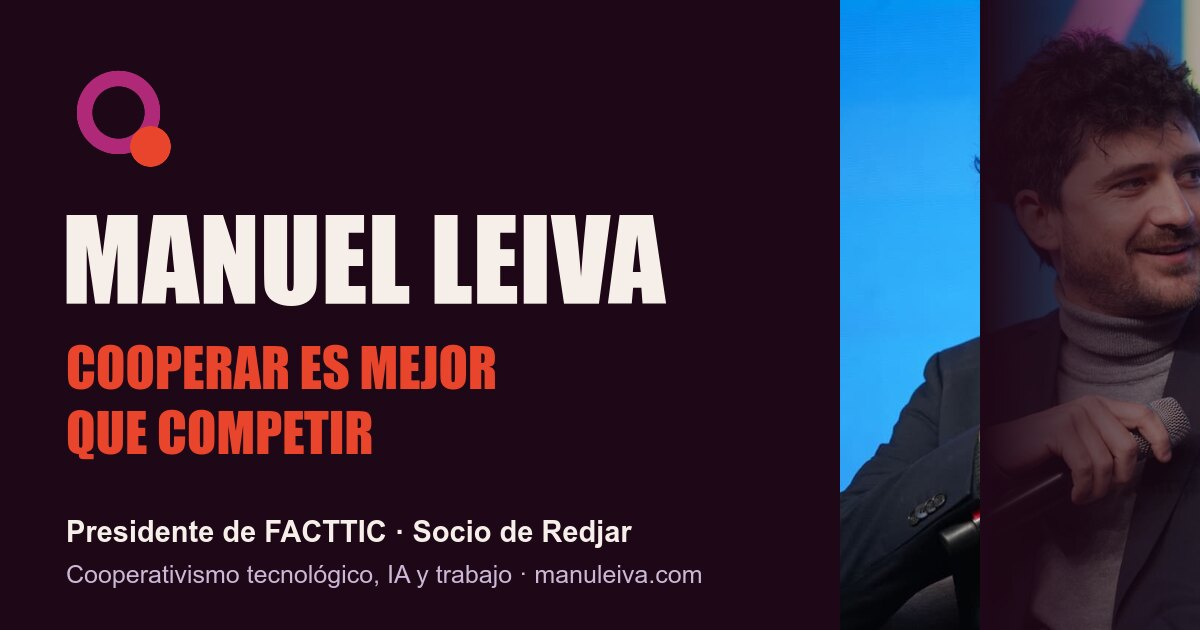
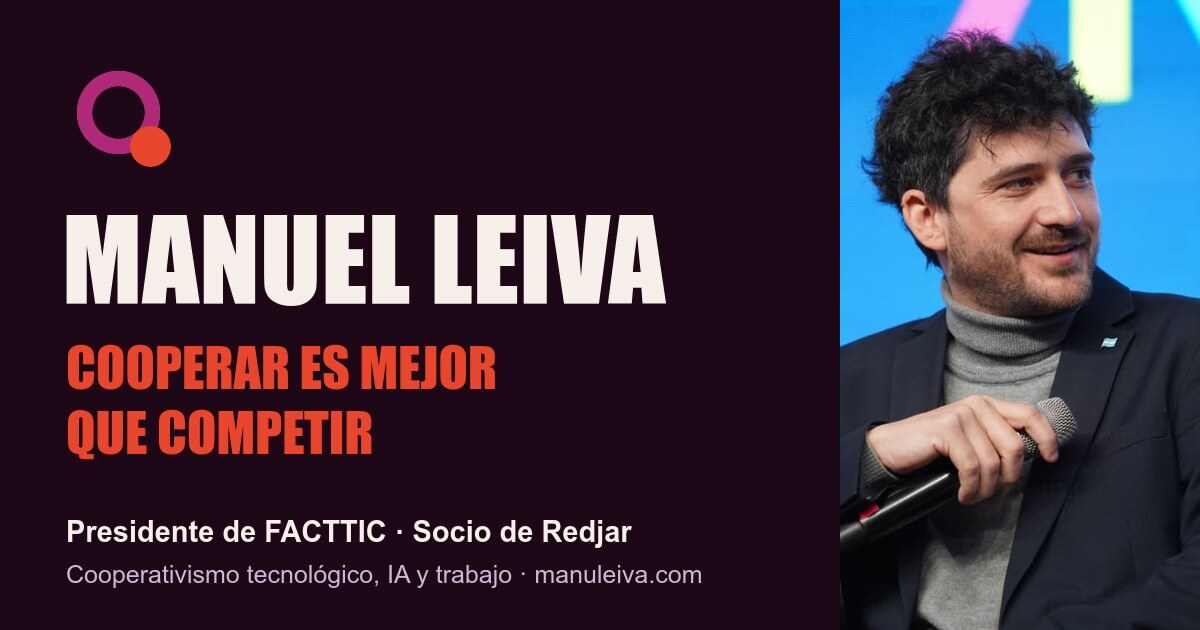
Corrige la miniatura para compartir: saca el sombreado de la cara
Rehace la franja de la foto con un recorte limpio de escenario.jpg y
versiona la URL (?v=2) para que las redes tomen la imagen nueva.

Changed region(s): [[0.6783, 0.0, 1.0, 1.0]]

diff --git a/blog/la-potencia-de-la-tecnologia-y-el-impacto-en-la-comunidad.html b/blog/la-potencia-de-la-tecnologia-y-el-impacto-en-la-comunidad.html
@@ -14,7 +14,7 @@
 <meta property="og:url" content="https://manuleiva.com/blog/la-potencia-de-la-tecnologia-y-el-impacto-en-la-comunidad.html">
 <meta property="og:title" content="La potencia de la tecnología y el impacto en la comunidad">
 <meta property="og:description" content="Exposición de Manuel Leiva por el Día Internacional de las Cooperativas 2025 en Santa Fe: tecnología cooperativa para tener más impacto en la comunidad.">
-<meta property="og:image" content="https://manuleiva.com/img/og/manuel-leiva-og.jpg">
+<meta property="og:image" content="https://manuleiva.com/img/og/manuel-leiva-og.jpg?v=2">
 <meta property="og:image:width" content="1200">
 <meta property="og:image:height" content="630">
 <meta property="og:image:alt" content="Manuel Leiva, presidente de FACTTIC y socio de Redjar.">
@@ -24,7 +24,7 @@
 <meta name="twitter:card" content="summary_large_image">
 <meta name="twitter:title" content="La potencia de la tecnología y el impacto en la comunidad">
 <meta name="twitter:description" content="Exposición de Manuel Leiva por el Día Internacional de las Cooperativas 2025: tecnología cooperativa para tener más impacto en la comunidad.">
-<meta name="twitter:image" content="https://manuleiva.com/img/og/manuel-leiva-og.jpg">
+<meta name="twitter:image" content="https://manuleiva.com/img/og/manuel-leiva-og.jpg?v=2">
 <meta name="theme-color" content="#1E0716">
 <script type="application/ld+json">
 {
@@ -37,7 +37,7 @@
       "headline": "La potencia de la tecnología y el impacto en la comunidad",
       "alternativeHeadline": "Compromiso de las cooperativas con la comunidad",
       "description": "Exposición presentada en la actividad por el Día Internacional de las Cooperativas 2025, organizada por la Secretaría de Cooperativas y Mutuales de Santa Fe, sobre cómo la tecnología cooperativa ayuda a tener más impacto en la comunidad.",
-      "image": "https://manuleiva.com/img/og/manuel-leiva-og.jpg",
+      "image": "https://manuleiva.com/img/og/manuel-leiva-og.jpg?v=2",
       "datePublished": "2025-06-26",
       "dateModified": "2025-06-26",
       "inLanguage": "es-AR",

diff --git a/blog/potencialidades-y-desafios-del-cooperativismo-tecnologico.html b/blog/potencialidades-y-desafios-del-cooperativismo-tecnologico.html
@@ -14,7 +14,7 @@
 <meta property="og:url" content="https://manuleiva.com/blog/potencialidades-y-desafios-del-cooperativismo-tecnologico.html">
 <meta property="og:title" content="Potencialidades y desafíos del cooperativismo tecnológico">
 <meta property="og:description" content="Rotación de 3,7 % en las cooperativas de FACTTIC contra 21 % en el sector IT, crecimiento y tarifas. Un estudio de Manuel Leiva con datos de FACTTIC, CESSI e INAES.">
-<meta property="og:image" content="https://manuleiva.com/img/og/manuel-leiva-og.jpg">
+<meta property="og:image" content="https://manuleiva.com/img/og/manuel-leiva-og.jpg?v=2">
 <meta property="og:image:width" content="1200">
 <meta property="og:image:height" content="630">
 <meta property="og:image:alt" content="Manuel Leiva, presidente de FACTTIC y socio de Redjar.">
@@ -26,7 +26,7 @@
 <meta name="twitter:card" content="summary_large_image">
 <meta name="twitter:title" content="Potencialidades y desafíos del cooperativismo tecnológico">
 <meta name="twitter:description" content="Un estudio de Manuel Leiva con datos de FACTTIC, CESSI e INAES sobre rotación, costos y crecimiento de las cooperativas tecnológicas.">
-<meta name="twitter:image" content="https://manuleiva.com/img/og/manuel-leiva-og.jpg">
+<meta name="twitter:image" content="https://manuleiva.com/img/og/manuel-leiva-og.jpg?v=2">
 <meta name="theme-color" content="#1E0716">
 <script type="application/ld+json">
 {
@@ -39,7 +39,7 @@
       "headline": "Potencialidades y desafíos del cooperativismo tecnológico",
       "alternativeHeadline": "Una herramienta para construir el futuro eficiente, productivo y sustentable",
       "description": "Estudio sobre el crecimiento, la rotación, los costos y las tarifas de las cooperativas tecnológicas argentinas frente al sector IT, con datos de FACTTIC, CESSI e INAES.",
-      "image": "https://manuleiva.com/img/og/manuel-leiva-og.jpg",
+      "image": "https://manuleiva.com/img/og/manuel-leiva-og.jpg?v=2",
       "datePublished": "2024-06",
       "dateModified": "2024-06",
       "inLanguage": "es-AR",

diff --git a/index.html b/index.html
@@ -16,7 +16,7 @@
 <meta property="og:url" content="https://manuleiva.com/">
 <meta property="og:title" content="Manuel Leiva · Cooperar es mejor que competir">
 <meta property="og:description" content="Presidente de FACTTIC y socio de Redjar. Cooperativismo tecnológico, IA y trabajo: charlas, notas, videos y estudios.">
-<meta property="og:image" content="https://manuleiva.com/img/og/manuel-leiva-og.jpg">
+<meta property="og:image" content="https://manuleiva.com/img/og/manuel-leiva-og.jpg?v=2">
 <meta property="og:image:type" content="image/jpeg">
 <meta property="og:image:width" content="1200">
 <meta property="og:image:height" content="630">
@@ -24,7 +24,7 @@
 <meta name="twitter:card" content="summary_large_image">
 <meta name="twitter:title" content="Manuel Leiva · Cooperar es mejor que competir">
 <meta name="twitter:description" content="Presidente de FACTTIC y socio de Redjar. Cooperativismo tecnológico, IA y trabajo.">
-<meta name="twitter:image" content="https://manuleiva.com/img/og/manuel-leiva-og.jpg">
+<meta name="twitter:image" content="https://manuleiva.com/img/og/manuel-leiva-og.jpg?v=2">
 <meta name="twitter:image:alt" content="Manuel Leiva, presidente de FACTTIC y socio de Redjar.">
 <meta name="theme-color" content="#1E0716">
 <script type="application/ld+json">
@@ -49,7 +49,7 @@
       "isPartOf": { "@id": "https://manuleiva.com/#website" },
       "about": { "@id": "https://manuleiva.com/#persona" },
       "mainEntity": { "@id": "https://manuleiva.com/#persona" },
-      "primaryImageOfPage": { "@type": "ImageObject", "url": "https://manuleiva.com/img/og/manuel-leiva-og.jpg", "width": 1200, "height": 630 }
+      "primaryImageOfPage": { "@type": "ImageObject", "url": "https://manuleiva.com/img/og/manuel-leiva-og.jpg?v=2", "width": 1200, "height": 630 }
     },
     {
       "@type": "Person",

diff --git a/charlas/index.html b/charlas/index.html
@@ -14,14 +14,14 @@
 <meta property="og:url" content="https://manuleiva.com/charlas/">
 <meta property="og:title" content="Charlas y conferencias de Manuel Leiva">
 <meta property="og:description" content="Próximos eventos y dónde habló Manuel Leiva: congresos, paneles y encuentros sobre cooperativismo tecnológico e IA.">
-<meta property="og:image" content="https://manuleiva.com/img/og/manuel-leiva-og.jpg">
+<meta property="og:image" content="https://manuleiva.com/img/og/manuel-leiva-og.jpg?v=2">
 <meta property="og:image:width" content="1200">
 <meta property="og:image:height" content="630">
 <meta property="og:image:alt" content="Manuel Leiva, presidente de FACTTIC y socio de Redjar.">
 <meta name="twitter:card" content="summary_large_image">
 <meta name="twitter:title" content="Charlas y conferencias de Manuel Leiva">
 <meta name="twitter:description" content="Próximos eventos y dónde habló Manuel Leiva: congresos, paneles y encuentros sobre cooperativismo tecnológico e IA.">
-<meta name="twitter:image" content="https://manuleiva.com/img/og/manuel-leiva-og.jpg">
+<meta name="twitter:image" content="https://manuleiva.com/img/og/manuel-leiva-og.jpg?v=2">
 <meta name="theme-color" content="#1E0716">
 <script type="application/ld+json">
 {"@context":"https://schema.org","@graph":[{"@type":"BreadcrumbList","itemListElement":[{"@type":"ListItem","position":1,"name":"Inicio","item":"https://manuleiva.com/"},{"@type":"ListItem","position":2,"name":"Charlas"}]},{"@type":"CollectionPage","@id":"https://manuleiva.com/charlas/","url":"https://manuleiva.com/charlas/","name":"Charlas","inLanguage":"es-AR","isPartOf":{"@id":"https://manuleiva.com/#website"},"about":{"@id":"https://manuleiva.com/#persona"}}]}

diff --git a/sobre-mi/index.html b/sobre-mi/index.html
@@ -14,14 +14,14 @@
 <meta property="og:url" content="https://manuleiva.com/sobre-mi/">
 <meta property="og:title" content="Sobre Manuel Leiva">
 <meta property="og:description" content="Presidente de FACTTIC, socio de Redjar y vicepresidente del Comité de Juventud de Cooperar. Vive en Rosario.">
-<meta property="og:image" content="https://manuleiva.com/img/og/manuel-leiva-og.jpg">
+<meta property="og:image" content="https://manuleiva.com/img/og/manuel-leiva-og.jpg?v=2">
 <meta property="og:image:width" content="1200">
 <meta property="og:image:height" content="630">
 <meta property="og:image:alt" content="Manuel Leiva, presidente de FACTTIC y socio de Redjar.">
 <meta name="twitter:card" content="summary_large_image">
 <meta name="twitter:title" content="Sobre Manuel Leiva">
 <meta name="twitter:description" content="Presidente de FACTTIC, socio de Redjar y vicepresidente del Comité de Juventud de Cooperar. Vive en Rosario.">
-<meta name="twitter:image" content="https://manuleiva.com/img/og/manuel-leiva-og.jpg">
+<meta name="twitter:image" content="https://manuleiva.com/img/og/manuel-leiva-og.jpg?v=2">
 <meta name="theme-color" content="#1E0716">
 <script type="application/ld+json">
 {"@context":"https://schema.org","@graph":[{"@type":"BreadcrumbList","itemListElement":[{"@type":"ListItem","position":1,"name":"Inicio","item":"https://manuleiva.com/"},{"@type":"ListItem","position":2,"name":"Sobre mí"}]},{"@type":"ProfilePage","@id":"https://manuleiva.com/sobre-mi/","url":"https://manuleiva.com/sobre-mi/","name":"Sobre mí","inLanguage":"es-AR","isPartOf":{"@id":"https://manuleiva.com/#website"},"about":{"@id":"https://manuleiva.com/#persona"},"mainEntity":{"@id":"https://manuleiva.com/#persona"}}]}

diff --git a/videos/index.html b/videos/index.html
@@ -14,14 +14,14 @@
 <meta property="og:url" content="https://manuleiva.com/videos/">
 <meta property="og:title" content="Videos y entrevistas de Manuel Leiva">
 <meta property="og:description" content="Entrevistas y apariciones de Manuel Leiva en radio, televisión y medios sobre cooperativismo tecnológico y trabajo.">
-<meta property="og:image" content="https://manuleiva.com/img/og/manuel-leiva-og.jpg">
+<meta property="og:image" content="https://manuleiva.com/img/og/manuel-leiva-og.jpg?v=2">
 <meta property="og:image:width" content="1200">
 <meta property="og:image:height" content="630">
 <meta property="og:image:alt" content="Manuel Leiva, presidente de FACTTIC y socio de Redjar.">
 <meta name="twitter:card" content="summary_large_image">
 <meta name="twitter:title" content="Videos y entrevistas de Manuel Leiva">
 <meta name="twitter:description" content="Entrevistas y apariciones de Manuel Leiva en radio, televisión y medios sobre cooperativismo tecnológico y trabajo.">
-<meta name="twitter:image" content="https://manuleiva.com/img/og/manuel-leiva-og.jpg">
+<meta name="twitter:image" content="https://manuleiva.com/img/og/manuel-leiva-og.jpg?v=2">
 <meta name="theme-color" content="#1E0716">
 <script type="application/ld+json">
 {"@context":"https://schema.org","@graph":[{"@type":"BreadcrumbList","itemListElement":[{"@type":"ListItem","position":1,"name":"Inicio","item":"https://manuleiva.com/"},{"@type":"ListItem","position":2,"name":"Videos"}]},{"@type":"CollectionPage","@id":"https://manuleiva.com/videos/","url":"https://manuleiva.com/videos/","name":"Videos","inLanguage":"es-AR","isPartOf":{"@id":"https://manuleiva.com/#website"},"about":{"@id":"https://manuleiva.com/#persona"}}]}

diff --git a/blog/index.html b/blog/index.html
@@ -14,14 +14,14 @@
 <meta property="og:url" content="https://manuleiva.com/blog/">
 <meta property="og:title" content="Blog de Manuel Leiva: cooperativismo, tecnología y trabajo">
 <meta property="og:description" content="Estudios, notas y artículos sobre cooperativismo tecnológico, economía social, IA y trabajo.">
-<meta property="og:image" content="https://manuleiva.com/img/og/manuel-leiva-og.jpg">
+<meta property="og:image" content="https://manuleiva.com/img/og/manuel-leiva-og.jpg?v=2">
 <meta property="og:image:width" content="1200">
 <meta property="og:image:height" content="630">
 <meta property="og:image:alt" content="Manuel Leiva, presidente de FACTTIC y socio de Redjar.">
 <meta name="twitter:card" content="summary_large_image">
 <meta name="twitter:title" content="Blog de Manuel Leiva">
 <meta name="twitter:description" content="Estudios, notas y artículos sobre cooperativismo tecnológico, economía social, IA y trabajo.">
-<meta name="twitter:image" content="https://manuleiva.com/img/og/manuel-leiva-og.jpg">
+<meta name="twitter:image" content="https://manuleiva.com/img/og/manuel-leiva-og.jpg?v=2">
 <meta name="theme-color" content="#1E0716">
 <script type="application/ld+json">
 {
